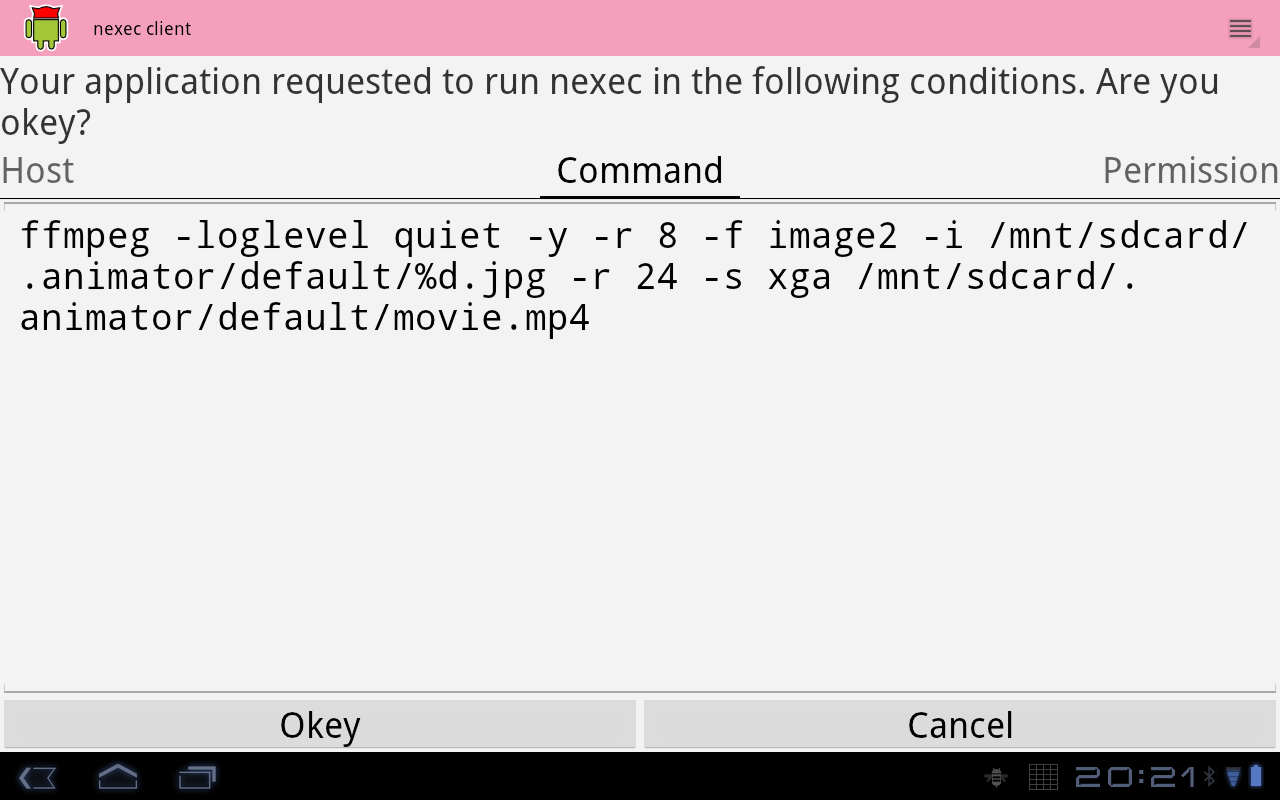
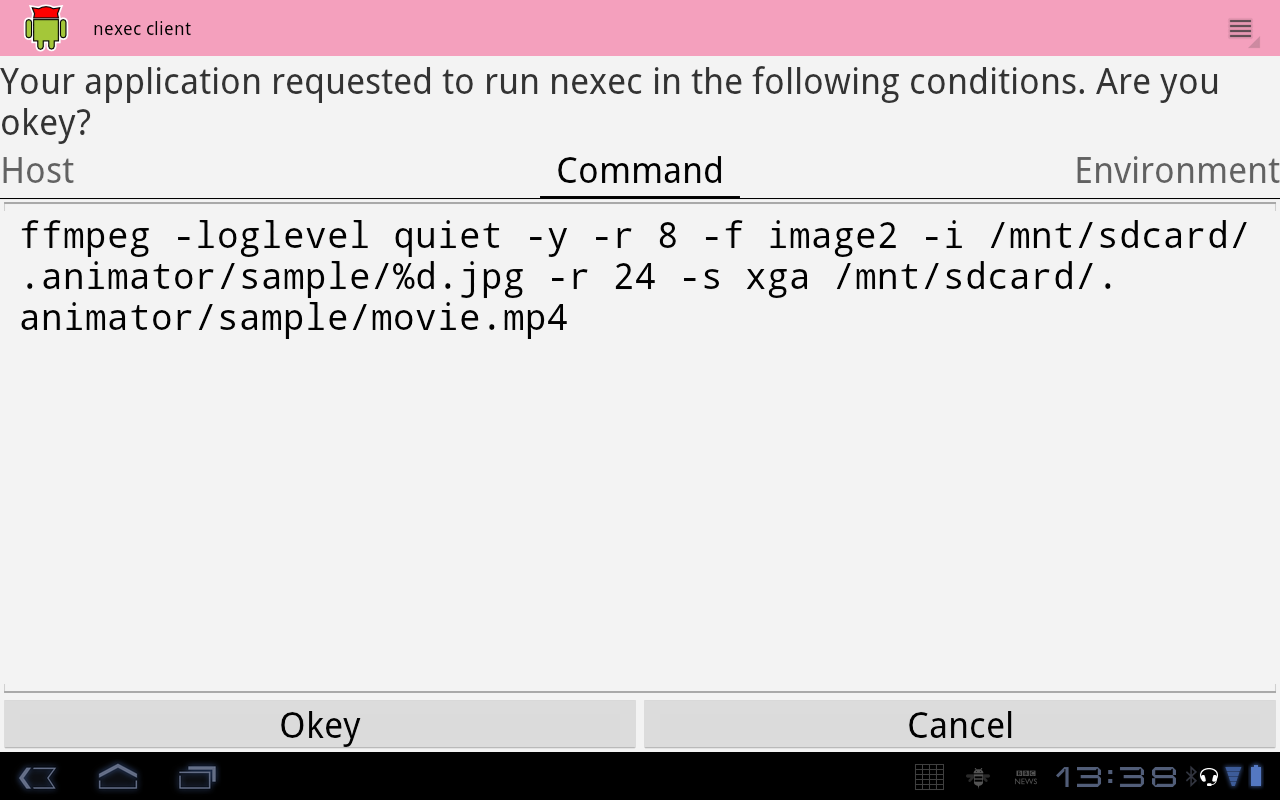
Update the screenshots with adding the environment variables page.

diff --git a/doc/index.rst b/doc/index.rst
@@ -77,6 +77,15 @@ You can see what command will be executed in this page.
 .. image:: command_page-thumb.png
     :target: command_page.png
 
+Environment page
+................
+
+If your application wants to set one or more environment variables, this page
+tells you.
+
+.. image:: environment_page-thumb.png
+    :target: environment_page.png
+
 Permission page
 ...............
 
